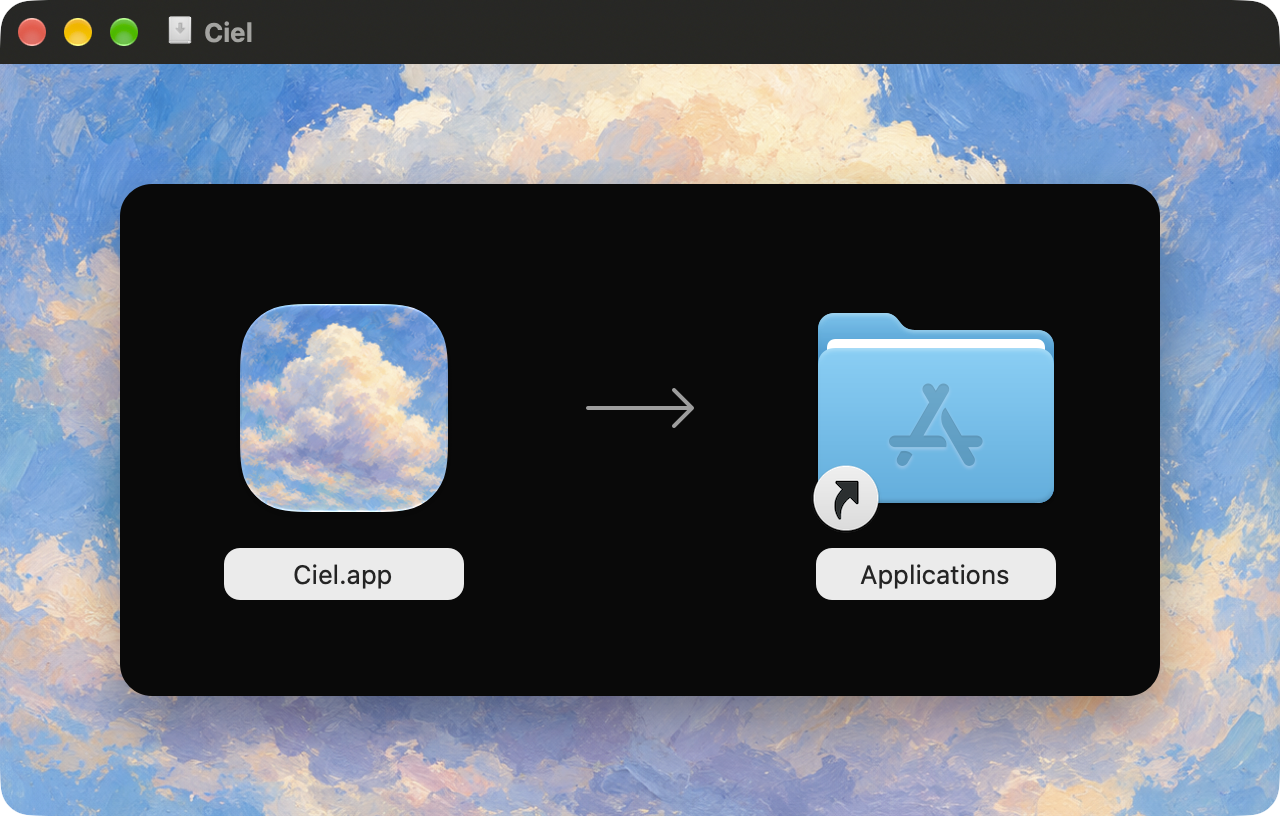
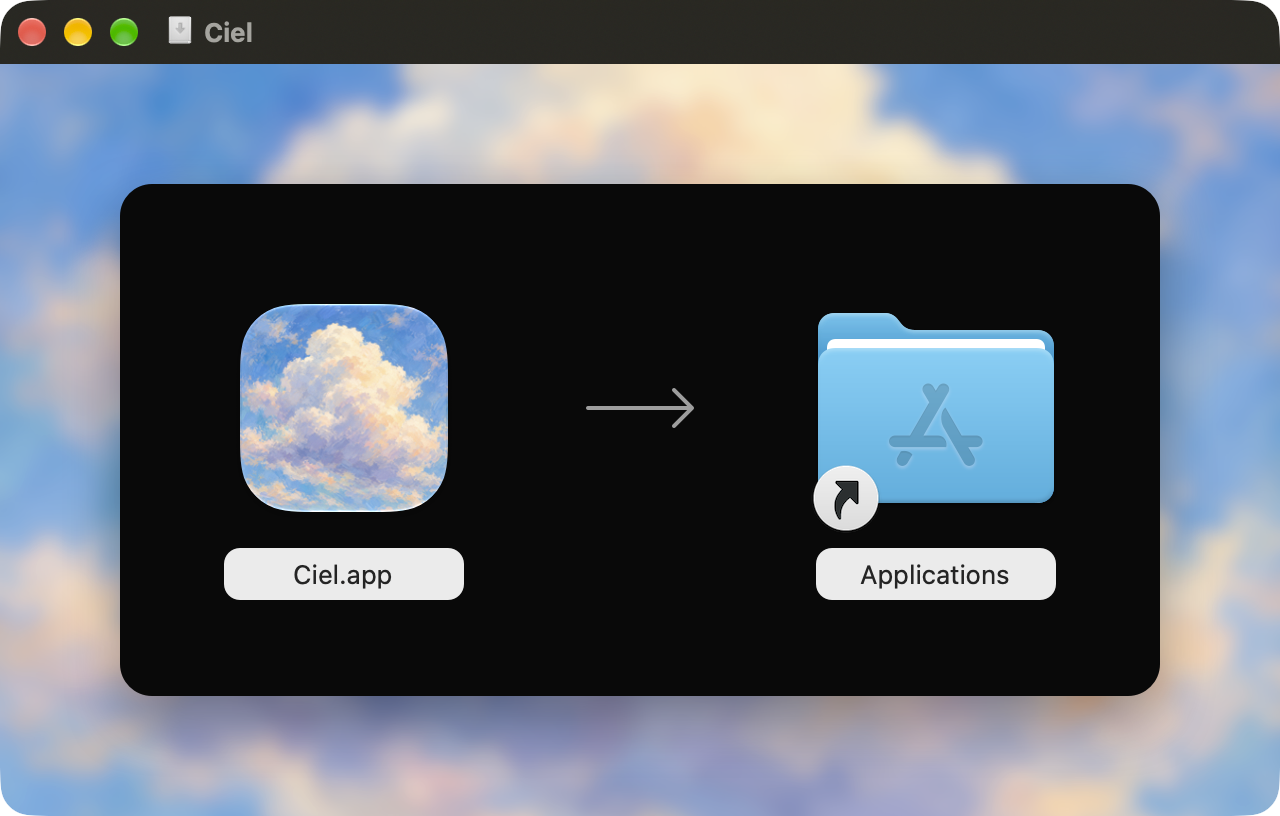
feat(release): blur the sky behind the disk image panel
The operator picked the blurred sky from the three window options. The sharp app icon now stands out from the painting it is made of.

diff --git a/scripts/GenerateDMGBackground.swift b/scripts/GenerateDMGBackground.swift
@@ -1,6 +1,7 @@
 import AppKit
+import CoreImage
 
-// The disk image window: the painting behind the black launcher panel, with the app and Applications on it.
+// The disk image window: the blurred painting behind the black launcher panel, with the app and Applications on it.
 let arguments = CommandLine.arguments
 let numbers = arguments.dropFirst(3).compactMap { Double($0) }.map { CGFloat($0) }
 guard arguments.count == 9, numbers.count == 6, let painting = NSImage(contentsOfFile: arguments[1]) else {
@@ -60,9 +61,21 @@ func arrow() {
     path.stroke()
 }
 
+// The blur keeps the sky soft, so the sharp app icon stands out from the painting it is made of.
+func blurred(_ image: NSImage, sigma: Double) -> NSImage {
+    guard let data = image.tiffRepresentation, let source = CIImage(data: data) else {
+        fatalError("The painting cannot be read as an image.")
+    }
+    let soft = source.clampedToExtent().applyingGaussianBlur(sigma: sigma).cropped(to: source.extent)
+    let result = NSImage(size: image.size)
+    result.addRepresentation(NSCIImageRep(ciImage: soft))
+    return result
+}
+let sky = blurred(painting, sigma: 10)
+
 func draw() {
     let bounds = NSRect(x: 0, y: 0, width: width, height: height)
-    painting.draw(
+    sky.draw(
         in: coverRect(for: painting.size, in: bounds, anchorY: 0.45), from: .zero, operation: .sourceOver,
         fraction: 1)
     let panelTop = iconY - iconSize / 2 - panelPadding

diff --git a/docs/design-system.md b/docs/design-system.md
@@ -66,7 +66,7 @@ Use native text editing, scrolling, focus behavior, and accessibility labels. Th
 
 ## Disk image
 
-`scripts/dmg.sh` builds `Ciel.dmg`. The geometry lives in the variables at its top, and `bash scripts/dmg.sh --layout` writes it into the Finder layout `Resources/DiskImage.DS_Store`. The Finder window is 640 by 380 points with no toolbar, sidebar or status bar. The cloud painting fills the background. On it sits the black launcher panel: Surface gray, radius 16, 60 points in from each side, with a soft shadow. `Ciel.app` and the Applications link sit on the panel at 128 points, with a Secondary gray arrow between them on their center line.
+`scripts/dmg.sh` builds `Ciel.dmg`. The geometry lives in the variables at its top, and `bash scripts/dmg.sh --layout` writes it into the Finder layout `Resources/DiskImage.DS_Store`. The Finder window is 640 by 380 points with no toolbar, sidebar or status bar. The cloud painting fills the background, softened with a 10 pixel Gaussian blur so the sharp app icon stands out from it. On it sits the black launcher panel: Surface gray, radius 16, 60 points in from each side, with a soft shadow. `Ciel.app` and the Applications link sit on the panel at 128 points, with a Secondary gray arrow between them on their center line.
 
 Under each icon is an Accent pill, 120 by 26 points with radius 8. Finder draws icon labels in black on any custom background, in light and dark appearance (measured on macOS 27.0.1), so the labels need a light surface to stay readable. `scripts/GenerateDMGBackground.swift` draws the background at 1x and 2x.
 
@@ -95,6 +95,7 @@ Applied [Emil Kowalski’s design engineering skill](https://github.com/emilkowa
 | Grouped Settings rows with section headers | Two columns, names on the left and controls on the right | Picked by the operator from three prototypes |
 | Gray selected row with a faint ring, 21-point input, divider under the input | Near-white selected row, 24-point input, no divider | Picked by the operator from three prototypes |
 | Left-aligned transcript lines | Centered transcript lines | Keep the text on the pill's center line as it grows |
+| A zip with no install step | A disk image window: blurred sky, black panel, labels on light pills | Picked by the operator from three prototypes |
 
 ## Validation
 
